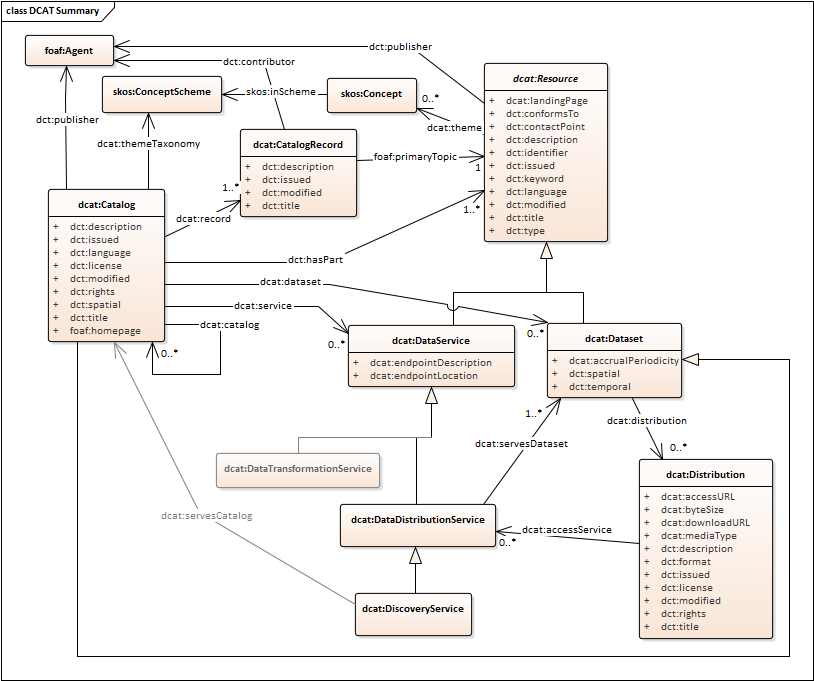
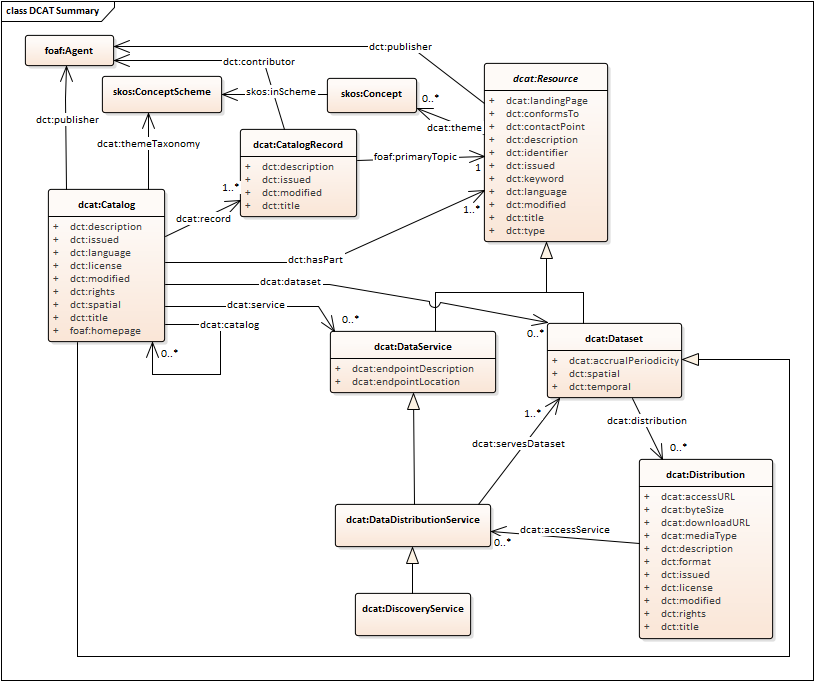
Remove DataTransformationService from Figure 1

diff --git a/index.html b/index.html
@@ -144,7 +144,7 @@ See <a href="https://github.com/w3c/dxwg/issues/172">Issue #172</a>. </p>
 
 <figure><img alt="UML model of DCAT classes and properties" src="UML/DCAT-summary.png">
 	<figcaption>
-		Overview of DCAT model
+		Overview of DCAT model, showing the classes of resources that may be members of a Catalog and the relationships between them.
 	</figcaption>
 </figure>
 
